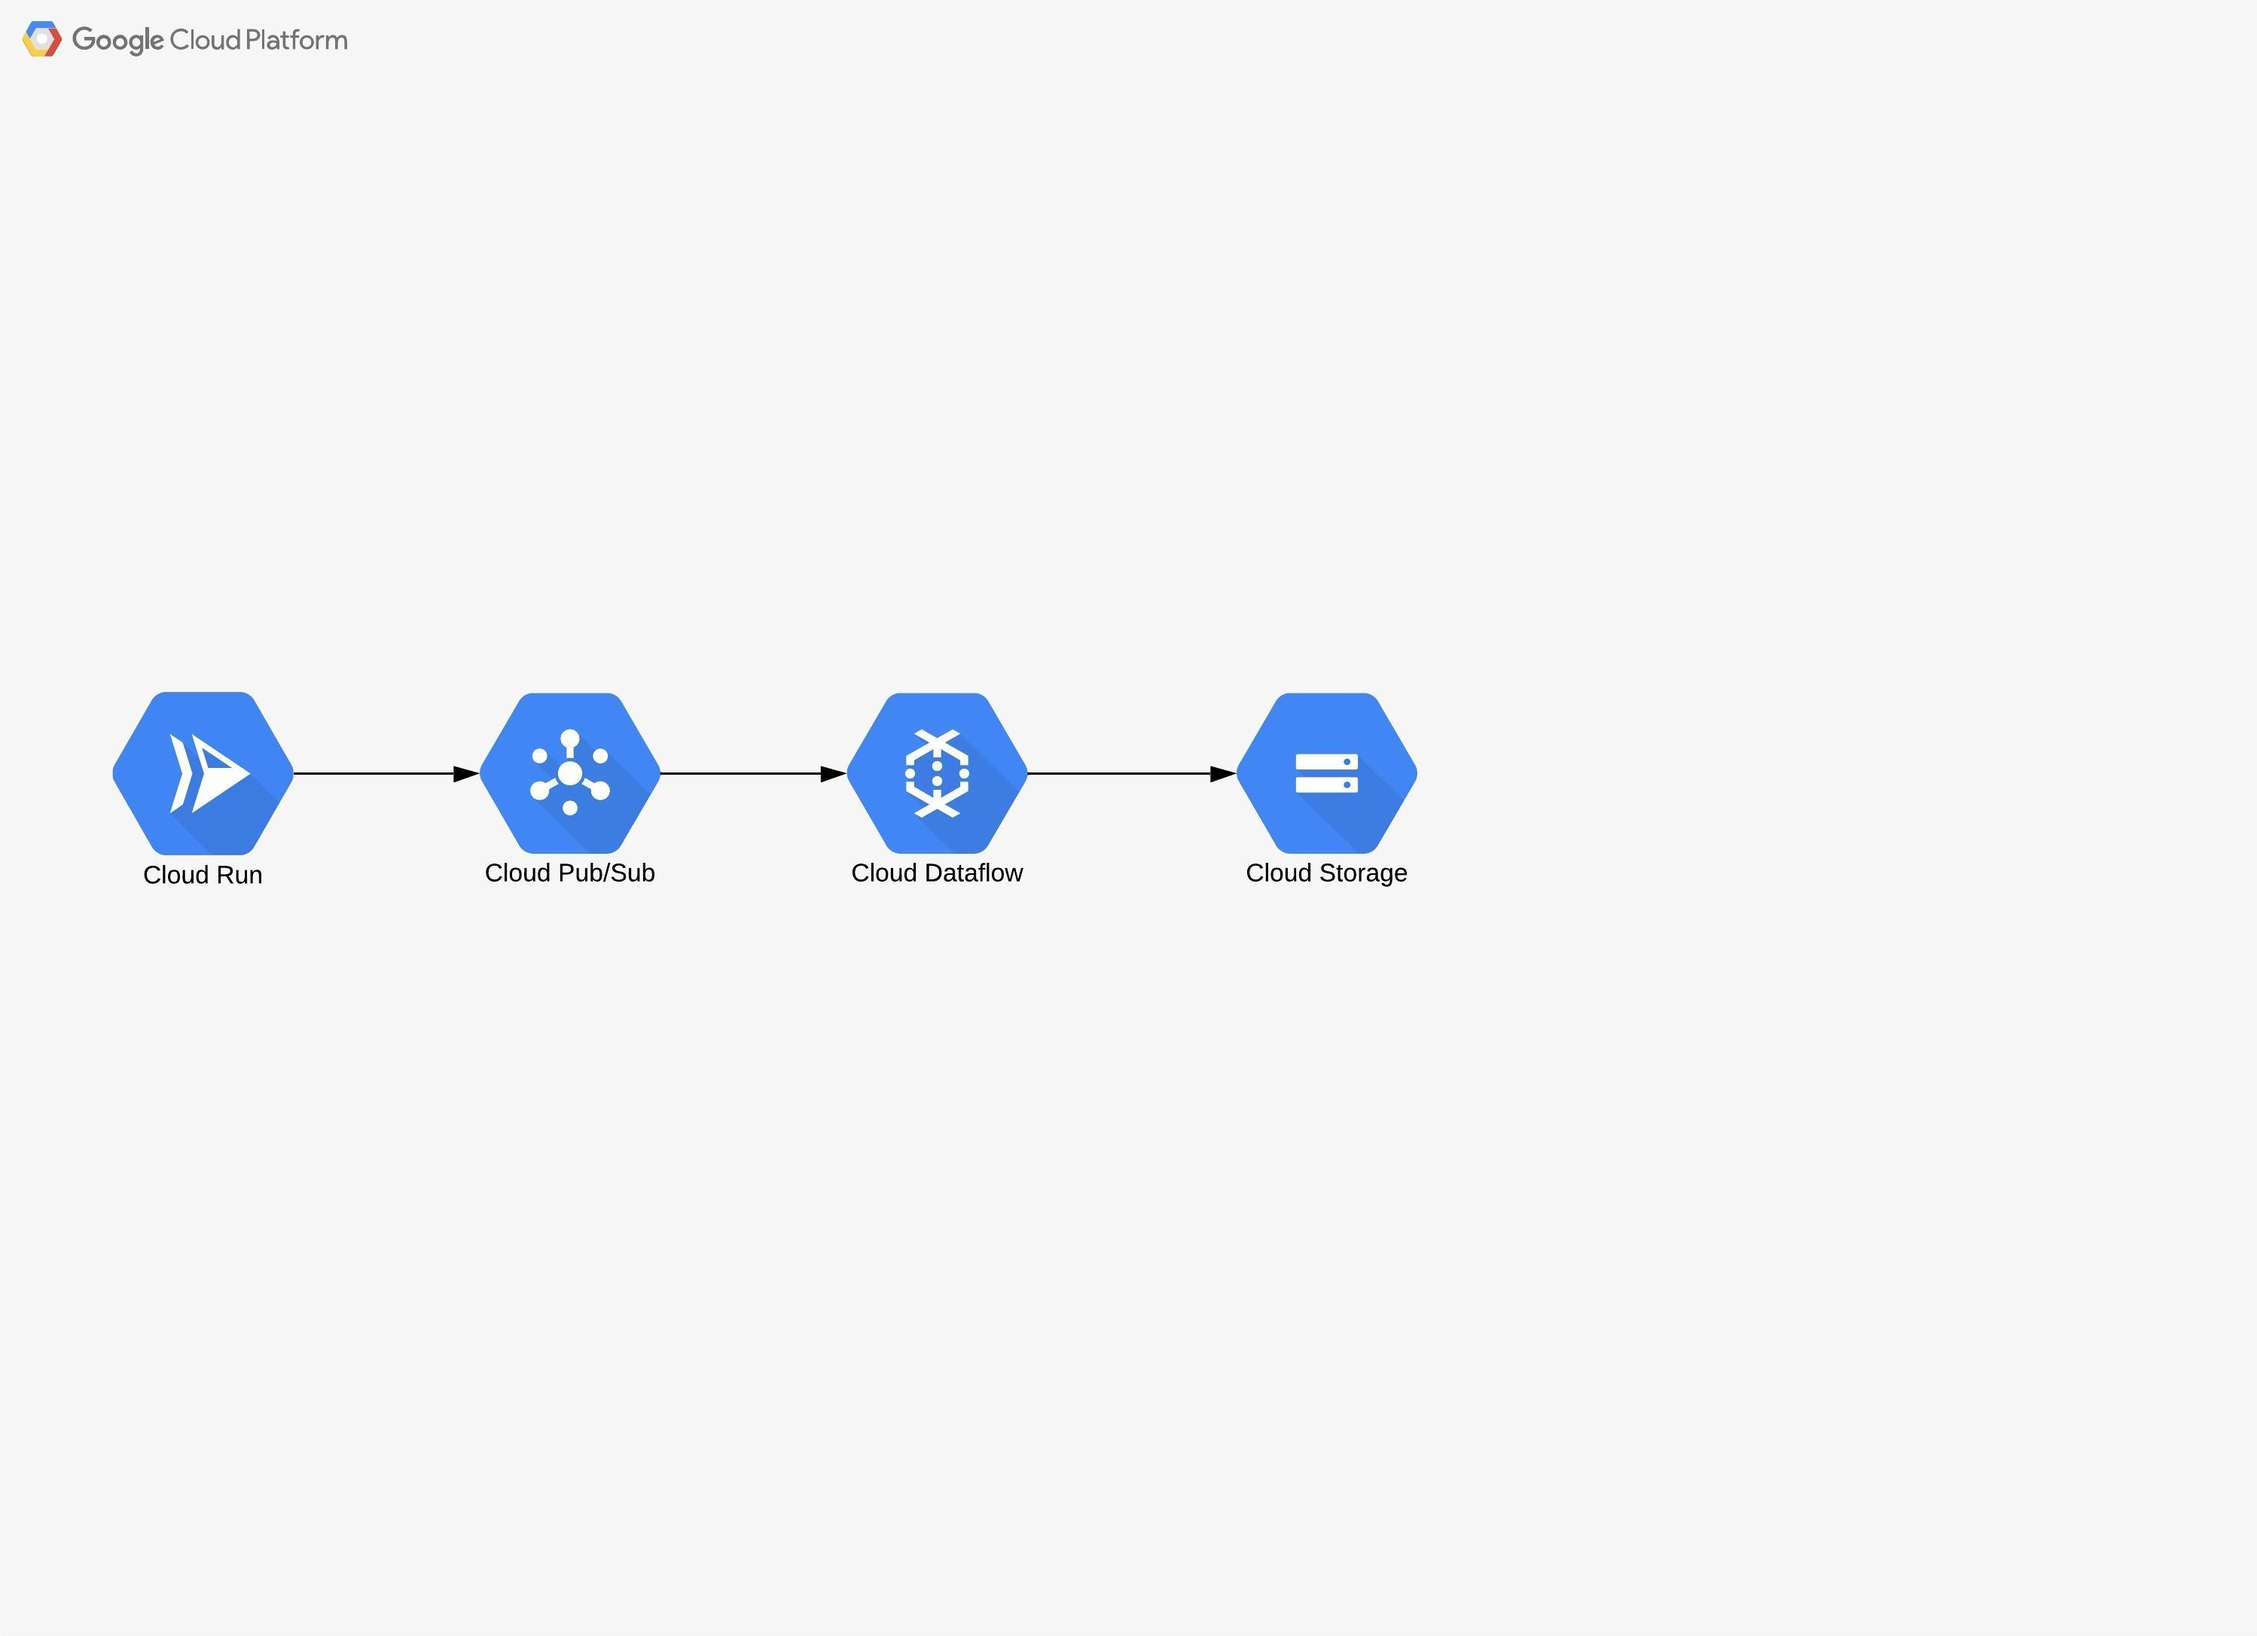
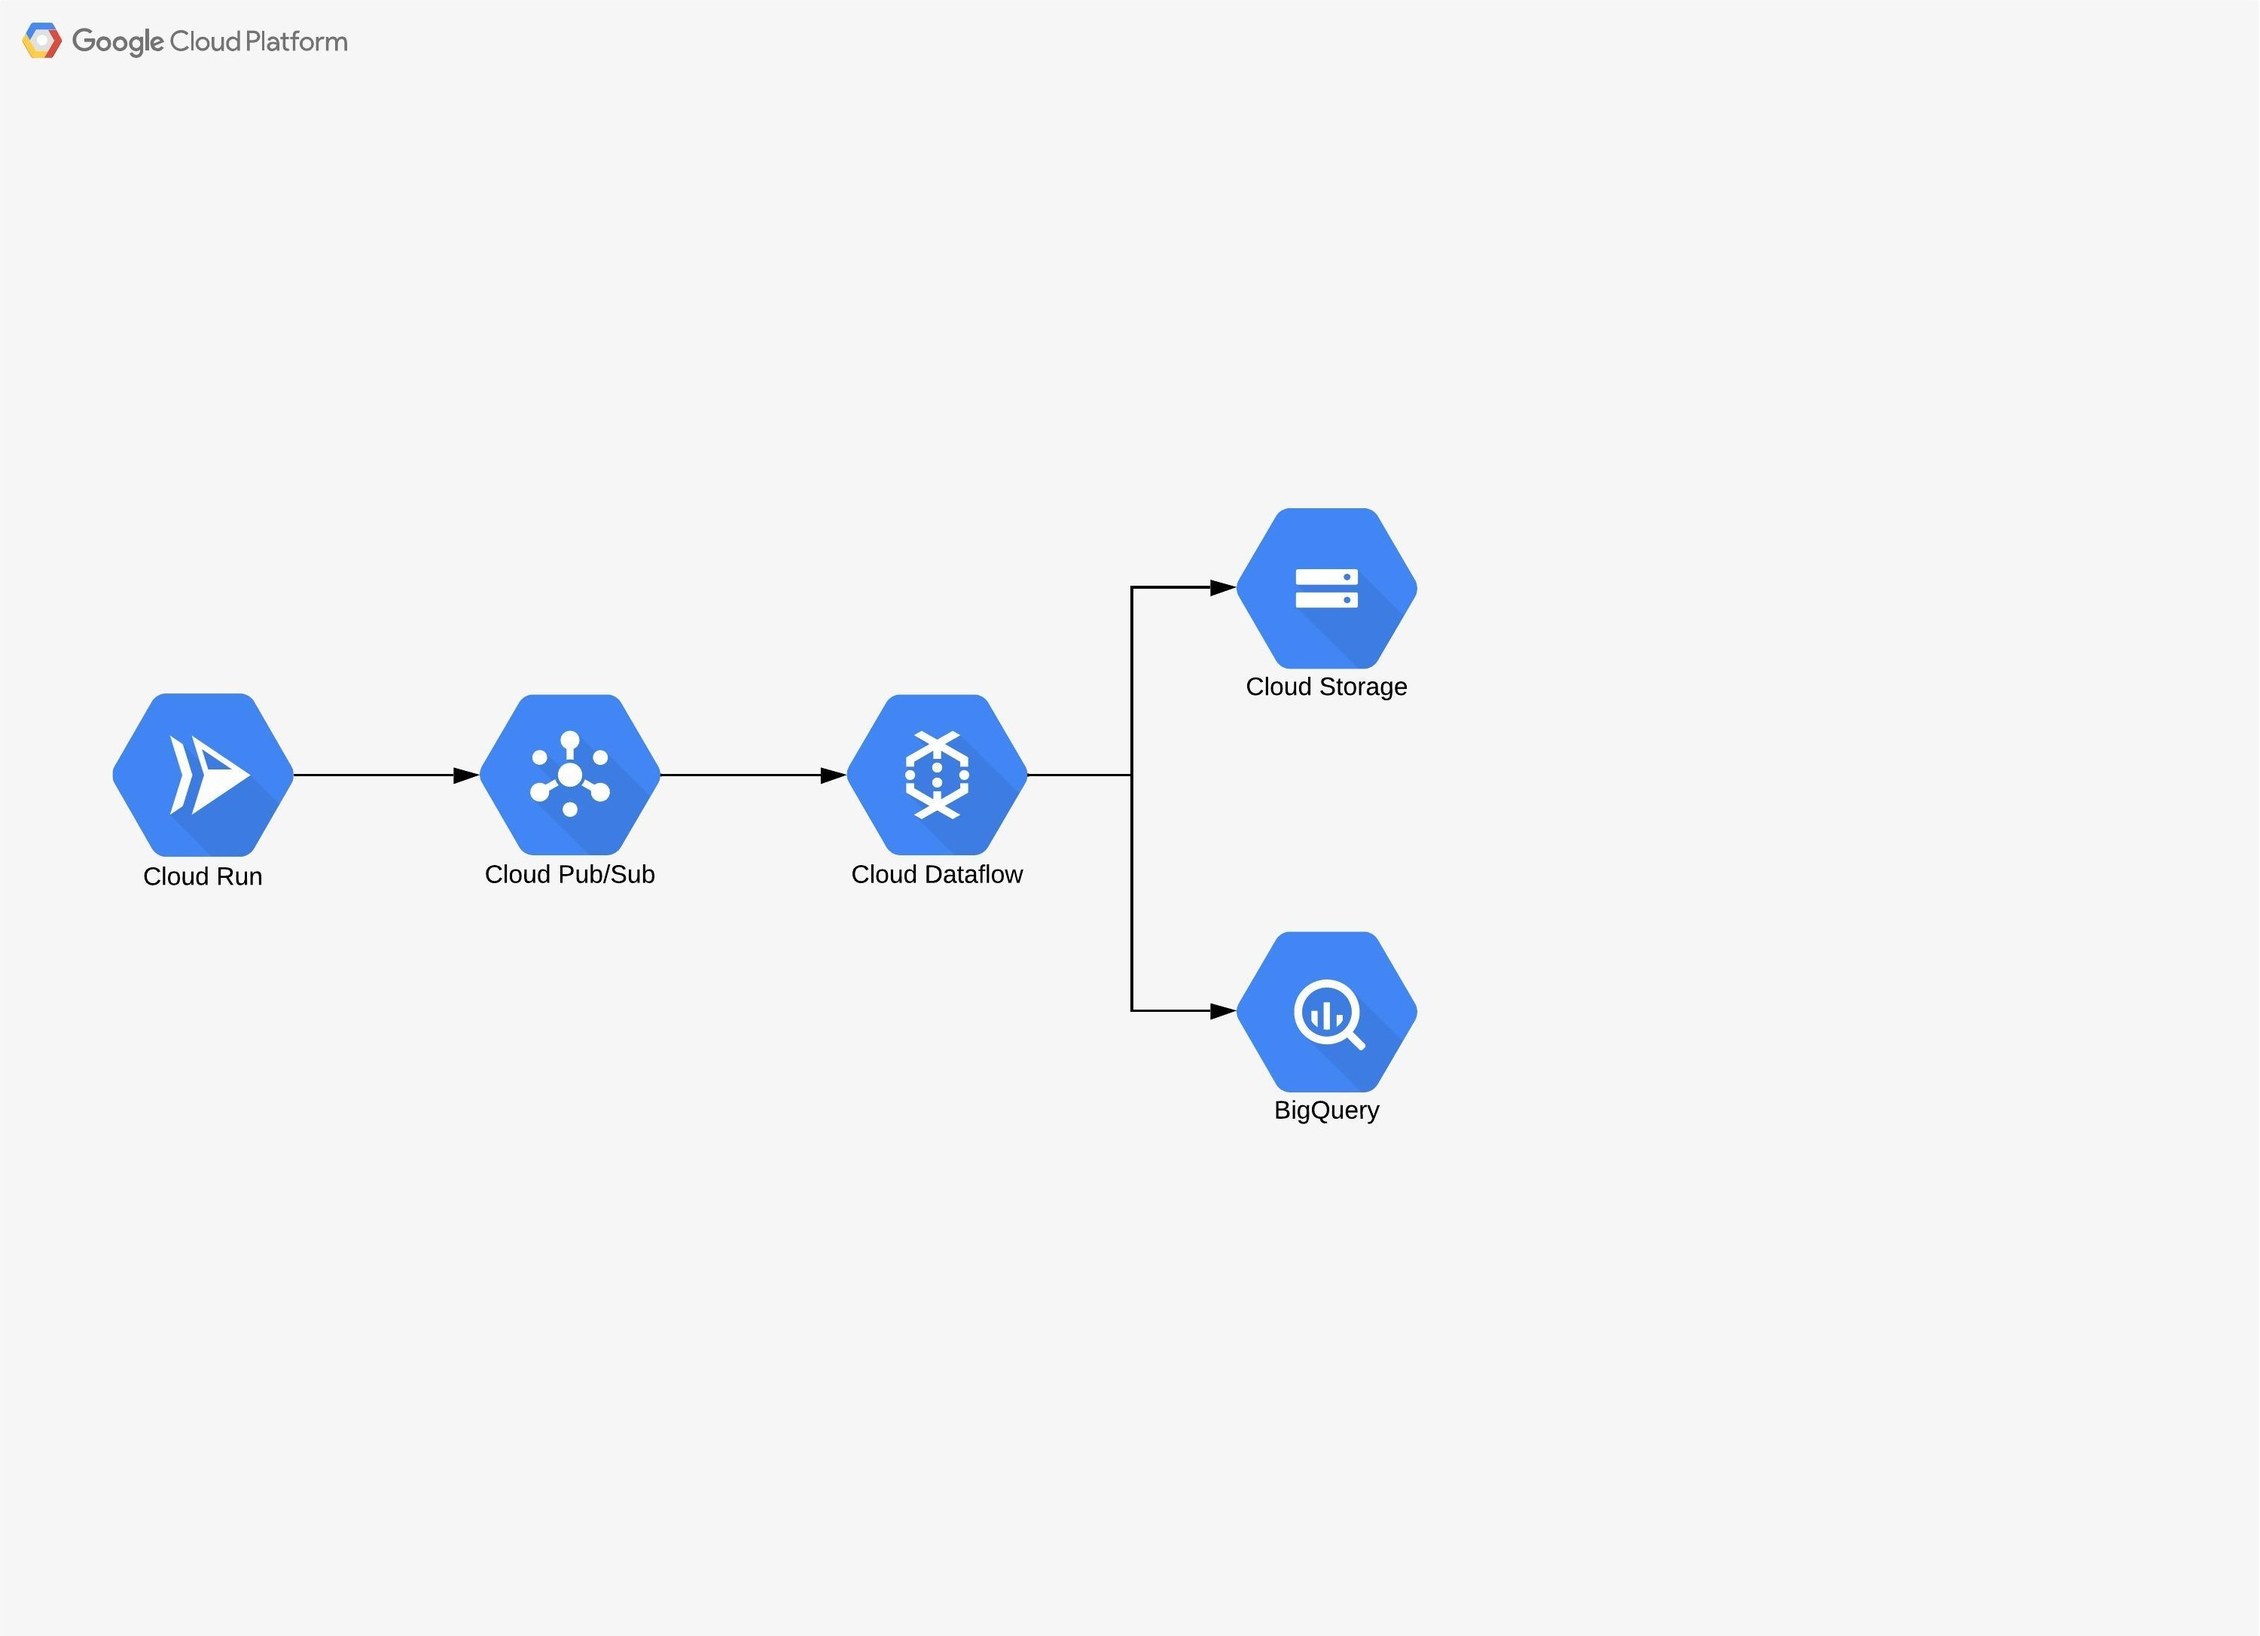
GCP-zadanie13 dataflow stream from pub/sub to bigquery

diff --git a/GCP/Architecture/Zadanie13/source/dataflow/beam.py b/GCP/Architecture/Zadanie13/source/dataflow/beam.py
@@ -12,6 +12,16 @@ class LogElement(beam.DoFn):
     def process(self, element):
         logging.info('ELEMENT: {}'.format(element))
 
+class Schema(object):
+    @staticmethod
+    def get_bigquery_schema():
+        schema_str = ('timestamp:TIMESTAMP, '
+                      'deviceid:STRING, '
+                      'I:FLOAT, '
+                      'U:FLOAT, '
+                      'Tm:FLOAT')
+        return schema_str
+
 def run(argv=None):
     """Build and run the pipeline"""
     parser = argparse.ArgumentParser()
@@ -20,8 +30,15 @@ def run(argv=None):
         type=str,
         help='Pub/Sub topic to read from')
     parser.add_argument(
-        "--output",
+        "--output_bucket",
         help=('Output local filemane'))
+    parser.add_argument(
+        '--output_bigquery',
+        default='IoTData.engine',
+        help=(
+            'Output BigQuery table: '
+            'PROJECT:DATASET.TABLE '
+            'or DATASET.TABLE.'))
     args, pipeline_args = parser.parse_known_args(argv)
     options = PipelineOptions(pipeline_args)
     options.view_as(SetupOptions).save_main_session = True
@@ -32,8 +49,18 @@ def run(argv=None):
     records = ( p | 'Read from PubSub' >> beam.io.ReadFromPubSub(topic=args.topic)
                   | 'Parse JSON to Dict' >> beam.Map(lambda e: json.loads(e)))
 
+    # stream to BigQuery
+    (
+      records | 'Write to BigQuery' >> beam.io.WriteToBigQuery(
+        args.output_bigquery,
+        schema=Schema.get_bigquery_schema(),
+        create_disposition=beam.io.BigQueryDisposition.CREATE_IF_NEEDED,
+        write_disposition=beam.io.BigQueryDisposition.WRITE_APPEND)
+    )
+
+    # stream to Bucket
     ( records | 'Log element' >> beam.ParDo(LogElement())
-              | 'Write to file' >> beam.io.WriteToText(args.output)
+              | 'Write to file' >> beam.io.WriteToText(args.output_bucket)
     )
 
     result = p.run()

diff --git a/GCP/Architecture/Zadanie13/README.md b/GCP/Architecture/Zadanie13/README.md
@@ -59,14 +59,17 @@ pip install apache-beam[gcp]
 python beam.py \
   --project $PROJECT_ID \
   --topic projects/$PROJECT_ID/topics/$TOPIC_NAME \
-  --output gs://$BUCKET_NAME/samples/output \
-  --runner DirectRunner 
+  --output_bucket gs://$BUCKET_NAME/samples/output \
+  --output_bigquery $PROJECT_ID:$DATASET_NAME.engine \
+  --runner DirectRunner
 ```
 #### Create BigQuery Dataset
 ```bash
 # Utworzenie datasetu
 DATASET_NAME="IoTData"
-bq mk --dataset $PROJECT_ID:$DATASET_NAME
+bq mk --dataset \
+--default_table_expiration 7948800 \
+$PROJECT_ID:$DATASET_NAME
 ```
   --input gs://dataflow-samples/shakespeare/kinglear.txt \
   --output gs://$BUCKET_NAME/wordcount/outputs \
